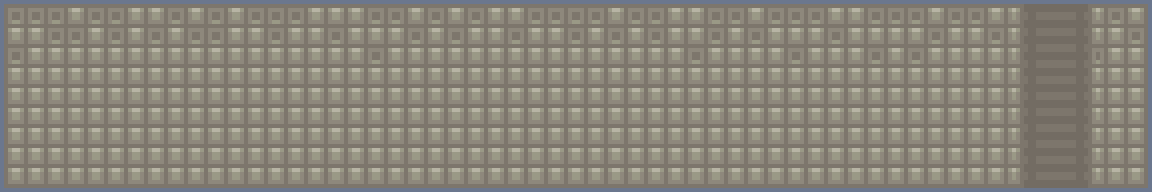
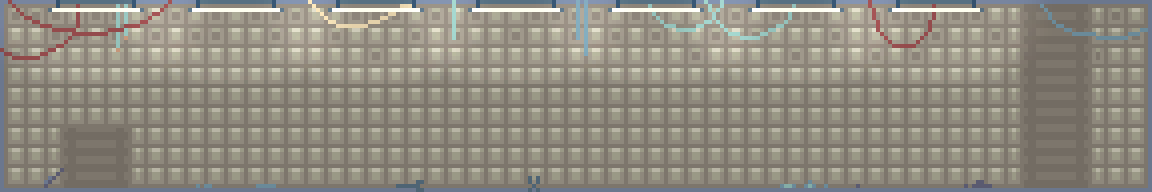
added room 3 with robots and 2 lives, dashbarred

diff --git a/Panel.java b/Panel.java
@@ -62,12 +62,12 @@ public class Panel extends JPanel implements Runnable, KeyListener {
     static int playerLeft = 0, playerRight = 0, playerUp = 0, playerJump = 0;
     static int playerWobble = 0; // Controls the bobbing up and down of player when walking.
 
-    static int dashResetCooldownTime = 60, dashResetCooldown = -dashResetCooldownTime;
+    static int dashResetCooldownTime = 30, dashResetCooldown = -dashResetCooldownTime;
     static int dashCooldownTime = 10, dashCooldown = -dashCooldownTime;
     static int dashSpeedMax = playerSpeed * 5 / 2, dashSpeed = 0;
 
     static int recoil, recoilMax = -6; // Controls weapon x recoil when it shoots.
-    static int shootCooldown = gameTime, shootCooldownTime = 20; // CooldownTime measured in ticks.
+    static int shootCooldown = gameTime, shootCooldownTime = 60; // CooldownTime measured in ticks.
     static int reloadBarWidth = reloadBarEmptyImg.getWidth(null), reloadBarHeight = reloadBarEmptyImg.getHeight(null);
     static int dashBarWidth = dashBarEmptyImg.getWidth(null), dashBarHeight = dashBarEmptyImg.getHeight(null);
 
@@ -91,7 +91,8 @@ public class Panel extends JPanel implements Runnable, KeyListener {
     boolean onLadder = false, climbingLadder = false, onLadderTop = false, onLadderBottom = false;
     boolean showControlls = true, panYAccelerating = false, panYDone = false;
     boolean inWallLeft = false, inWallRight = false;
-    boolean canDash = true, dashing = false, dashBarRed = false;
+    boolean reloadBarRed = false, shootButtonPushed = false;
+    boolean canDash = true, dashing = false, dashBarFull = false, dashBarRed = false, dashButtonPushed = false;
 
     // Rectangles
     static Rectangle playerCol; // Collision box for player.
@@ -100,10 +101,7 @@ public class Panel extends JPanel implements Runnable, KeyListener {
     static Rectangle wallRightCol = new Rectangle(WIDTH - CHUNK * 2, -HEIGHT * 8, CHUNK * 2, HEIGHT * 16);
 
     // Colors.
-    Color playerBlood;
-    Color enemyBlood;
-    Color blast;
-    Color wood;
+    Color playerBlood, enemyBlood, blast, wood;
 
     // ArrayLists
     static ArrayList<Projectile> projectile = new ArrayList<Projectile>();
@@ -141,9 +139,12 @@ public class Panel extends JPanel implements Runnable, KeyListener {
         ladder.add(new Ladder(CHUNK * 18, CHUNK * 4, 0));
         ladder.add(new Ladder(CHUNK * 3, CHUNK * 8, 1));
         ladder.add(new Ladder(CHUNK * 18, CHUNK * 12, 2));
+        ladder.add(new Ladder(CHUNK * 3, CHUNK * 16, 3));
+
         room.add(new Room(roomX, roomYBase + roomYLevel * 0, 0)); // Start at level 0 as index starts at 0.
         room.add(new Room(roomX, roomYBase + roomYLevel * 1, 1));
         room.add(new Room(roomX, roomYBase + roomYLevel * 2, 2));
+        room.add(new Room(roomX, roomYBase + roomYLevel * 3, 3));
 
         gameThread = new Thread(this);
         gameThread.start();
@@ -897,10 +898,10 @@ public class Panel extends JPanel implements Runnable, KeyListener {
                 if (dashResetCooldown < gameTime - dashResetCooldownTime && !onLadder) {
                     // Only triggers when dashResetCooldown has surpassed dashResetCooldownTime
                     dashCooldown = gameTime; // Reset dashCooldown, making player dash.
+                    dashButtonPushed = true;
                 }
-                if (dashSpeed > 0)
+                if (!(dashCooldown < gameTime - dashResetCooldownTime) && !dashButtonPushed)
                     dashBarRed = true;
-                System.out.println("no");
                 break;
         }
         if (e.getKeyCode() == 38) {
@@ -918,8 +919,11 @@ public class Panel extends JPanel implements Runnable, KeyListener {
 
     public void shoot() {
         if (shootCooldown < gameTime - shootCooldownTime) {
+            shootButtonPushed = true;
+
             projectile.add(new Projectile(facingLeft, playerX, playerY, "bazooka"));
             recoil = recoilMax; // This pushes gun backwards by recoilMax pixels.
+
             for (int i = 0; i < (playerWidth * playerHeight) / particlesDensity * 8; i++)
                 if (facingLeft) {
 
@@ -967,8 +971,12 @@ public class Panel extends JPanel implements Runnable, KeyListener {
                 playerClimbSpeed = 0;
                 climbingLadder = false;
                 break;
+            case 32:
+            shootButtonPushed = false;
+            break;
             case 16:
                 dashBarRed = false;
+                dashButtonPushed = false;
                 break;
         }
     }

diff --git a/Room.java b/Room.java
@@ -45,7 +45,7 @@ public class Room {
         Graphics2D g2D = (Graphics2D) g;
 
         if (Panel.lastRoom == level) {
-            if (level <= 1 & Panel.gameTime % 2 == 0) {
+            if (level <= 2 & Panel.gameTime % 2 == 0) {
                 // This will constantly flick between true and false for level 0, and always be
                 // false for other levels.
                 roomImg = new ImageIcon("room" + level + "Flicker.png").getImage();
